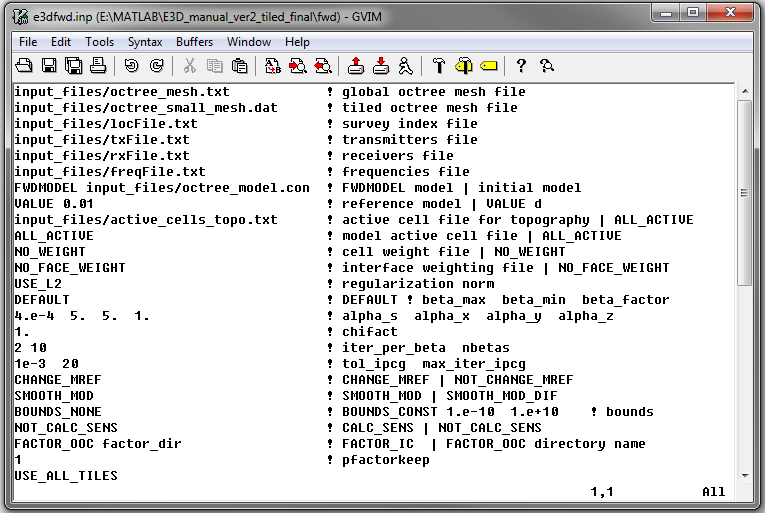
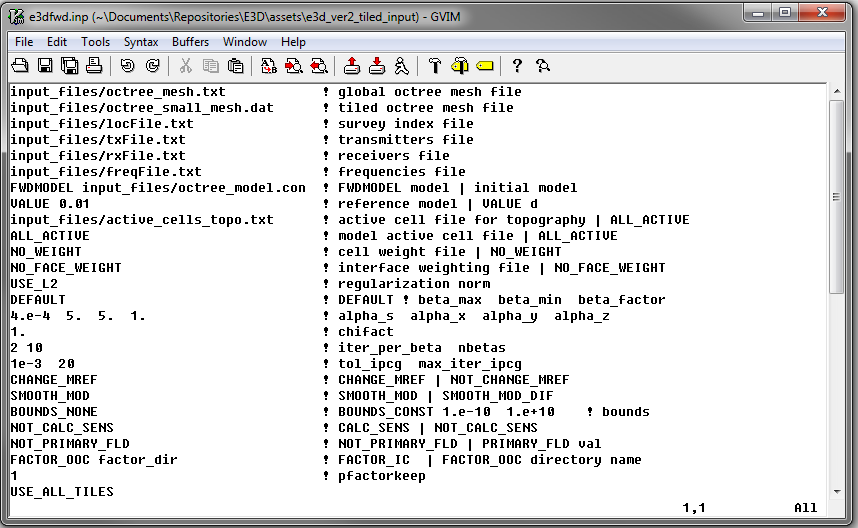
update primary field computation options

Changed region(s): [[0.0, 0.0, 1.0, 1.0]]

diff --git a/content/inputfiles/inversion.rst b/content/inputfiles/inversion.rst
@@ -54,11 +54,13 @@ Both the forward and inverse problems are solved using the **e3d_v2_tiled.exe** 
 +--------+--------------------------------------------------------------+-------------------------------------------------------------------------+
 | 22     |:ref:`Calculate sensitivity<e3d_input_inv2_ln22>`             | use *CALC_SENS* or *NOT_CALC_SENS*                                      |
 +--------+--------------------------------------------------------------+-------------------------------------------------------------------------+
-| 23     |:ref:`Memory Options<e3d_input_inv2_ln23>`                    | options for storing factorizations of forward system (RAM vs disk)      |
+| 23     |:ref:`Primary Field Computation Options<e3d_input_inv2_ln23>` | computer primary field in free-space or whole space                     |
 +--------+--------------------------------------------------------------+-------------------------------------------------------------------------+
-| 24     |:ref:`PCT_FACT<e3d_input_inv2_ln24>`                          | fractional percent of tiles used for sensitivity calculation            |
+| 24     |:ref:`Memory Options<e3d_input_inv2_ln24>`                    | options for storing factorizations of forward system (RAM vs disk)      |
 +--------+--------------------------------------------------------------+-------------------------------------------------------------------------+
-| 25     |:ref:`Active tiles file<e3d_input_inv2_ln25>`                 | option to invert using only subset of data                              |
+| 25     |:ref:`PCT_FACT<e3d_input_inv2_ln25>`                          | fractional percent of tiles used for sensitivity calculation            |
++--------+--------------------------------------------------------------+-------------------------------------------------------------------------+
+| 26     |:ref:`Active tiles file<e3d_input_inv2_ln26>`                 | option to invert using only subset of data                              |
 +--------+--------------------------------------------------------------+-------------------------------------------------------------------------+
 
 
@@ -181,15 +183,19 @@ Line Descriptions
 
     - **Calculate sensitivity:** When the flag *CALC_SENS* is used, the :ref:`sensitivity matrix <theory_IPCG>` (:math:`\mathbf{J}`) is computed and stored for the current model. When the flag *NOT_CALC_SENS* is used, the product of the sensitivity and any vector is done without storing the sensitivity matrix. The former option is faster but uses a lot more memory. Unless the forward meshes and/or the number of data are sufficiently small, it is suggested the user choose *NOT_CALC_SENS*.
 
-.. _e3d_input_inv2_ln23:
+.. _e3d_input_inv_ln23:
+
+    - **Primary Field Options:** If the flag "NOT_PRIMARY_FLD" is used, then a free-space computation is done to obtain the source term in Maxwell's equations. If "PRIMARY_FLD" is used followed by a numerical value, the source term is obtained by computing the primary field in a homogeneous medium. The latter option is advised when doing borehole EM surveys.
+
+.. _e3d_input_inv2_ln24:
 
     - **Memory Options:** This code uses a factorization to solve the forward system at each frequency. These factorizations must be stored. By using the flag 'FACTOR_IC' (in cpu), factorizations are stored within a computer's RAM. Although this is faster, larger problems cannot be solved if insufficient temporary memory is available. The factorizations are stored in permanent memory (disk) if the flag 'FACTOR_OOC' (out of cpu) is used followed by the path to a directory. This is slower because the program must read these files many times. The second options is ill-advised if files are being transferred over a network.
 
 
-.. _e3d_input_inv2_ln24:
+.. _e3d_input_inv2_ln25:
 
     - **PCT_FACT:** To save time and memory, we can approximate the sensitivity matrix at each iteration by using a **random** subset of the data/local forward meshes. Thus *PCT_FACT* is the fractional percent of tiles (local forward meshes) which are used to approximate the sensitivity at each iteration; e.g. 0 < *PCT_FACT* < 1. As a default option, we should use all of the tiles; i.e. *PCT_FACT* = 1.
 
-.. _e3d_input_inv2_ln25:
+.. _e3d_input_inv2_ln26:
 
     - **Active tiles file:** This line allows the user to invert only a subset of the data by specifying the tiles (local forward meshes) they wish to be used in the inversion. If the flag *USE_ALL_TILES* is used, then all the data are inverted; e.g. all the tiles are used. If the path to an :ref:`active tiles file<activeTilesFile>` is used, then only the 'active tiles' are inverted. The active tiles file is a vector of 1s and 0s, where a 1 denotes a local forward mesh that is used in the inversion, and a zero denotes a local forward mesh that is not. The number of values in the active tiles file must equal the number of local forward meshes.
